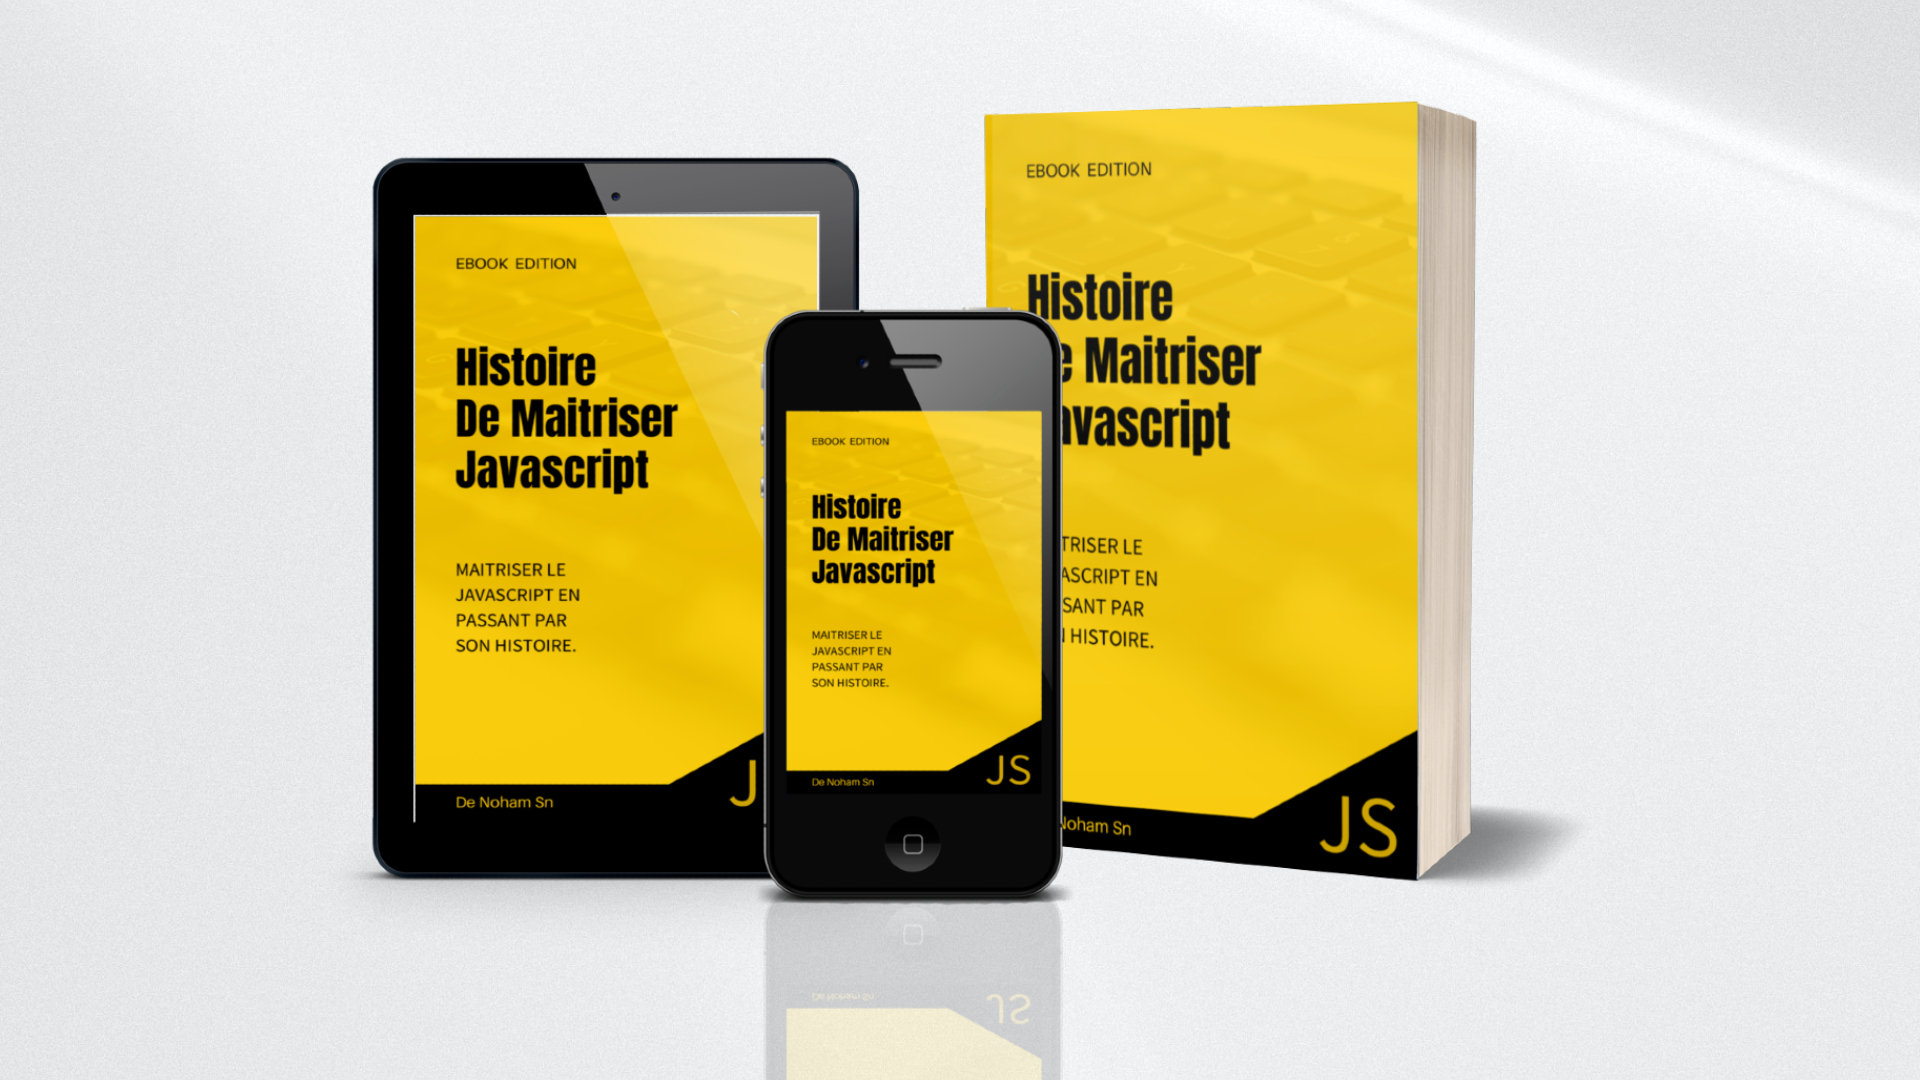
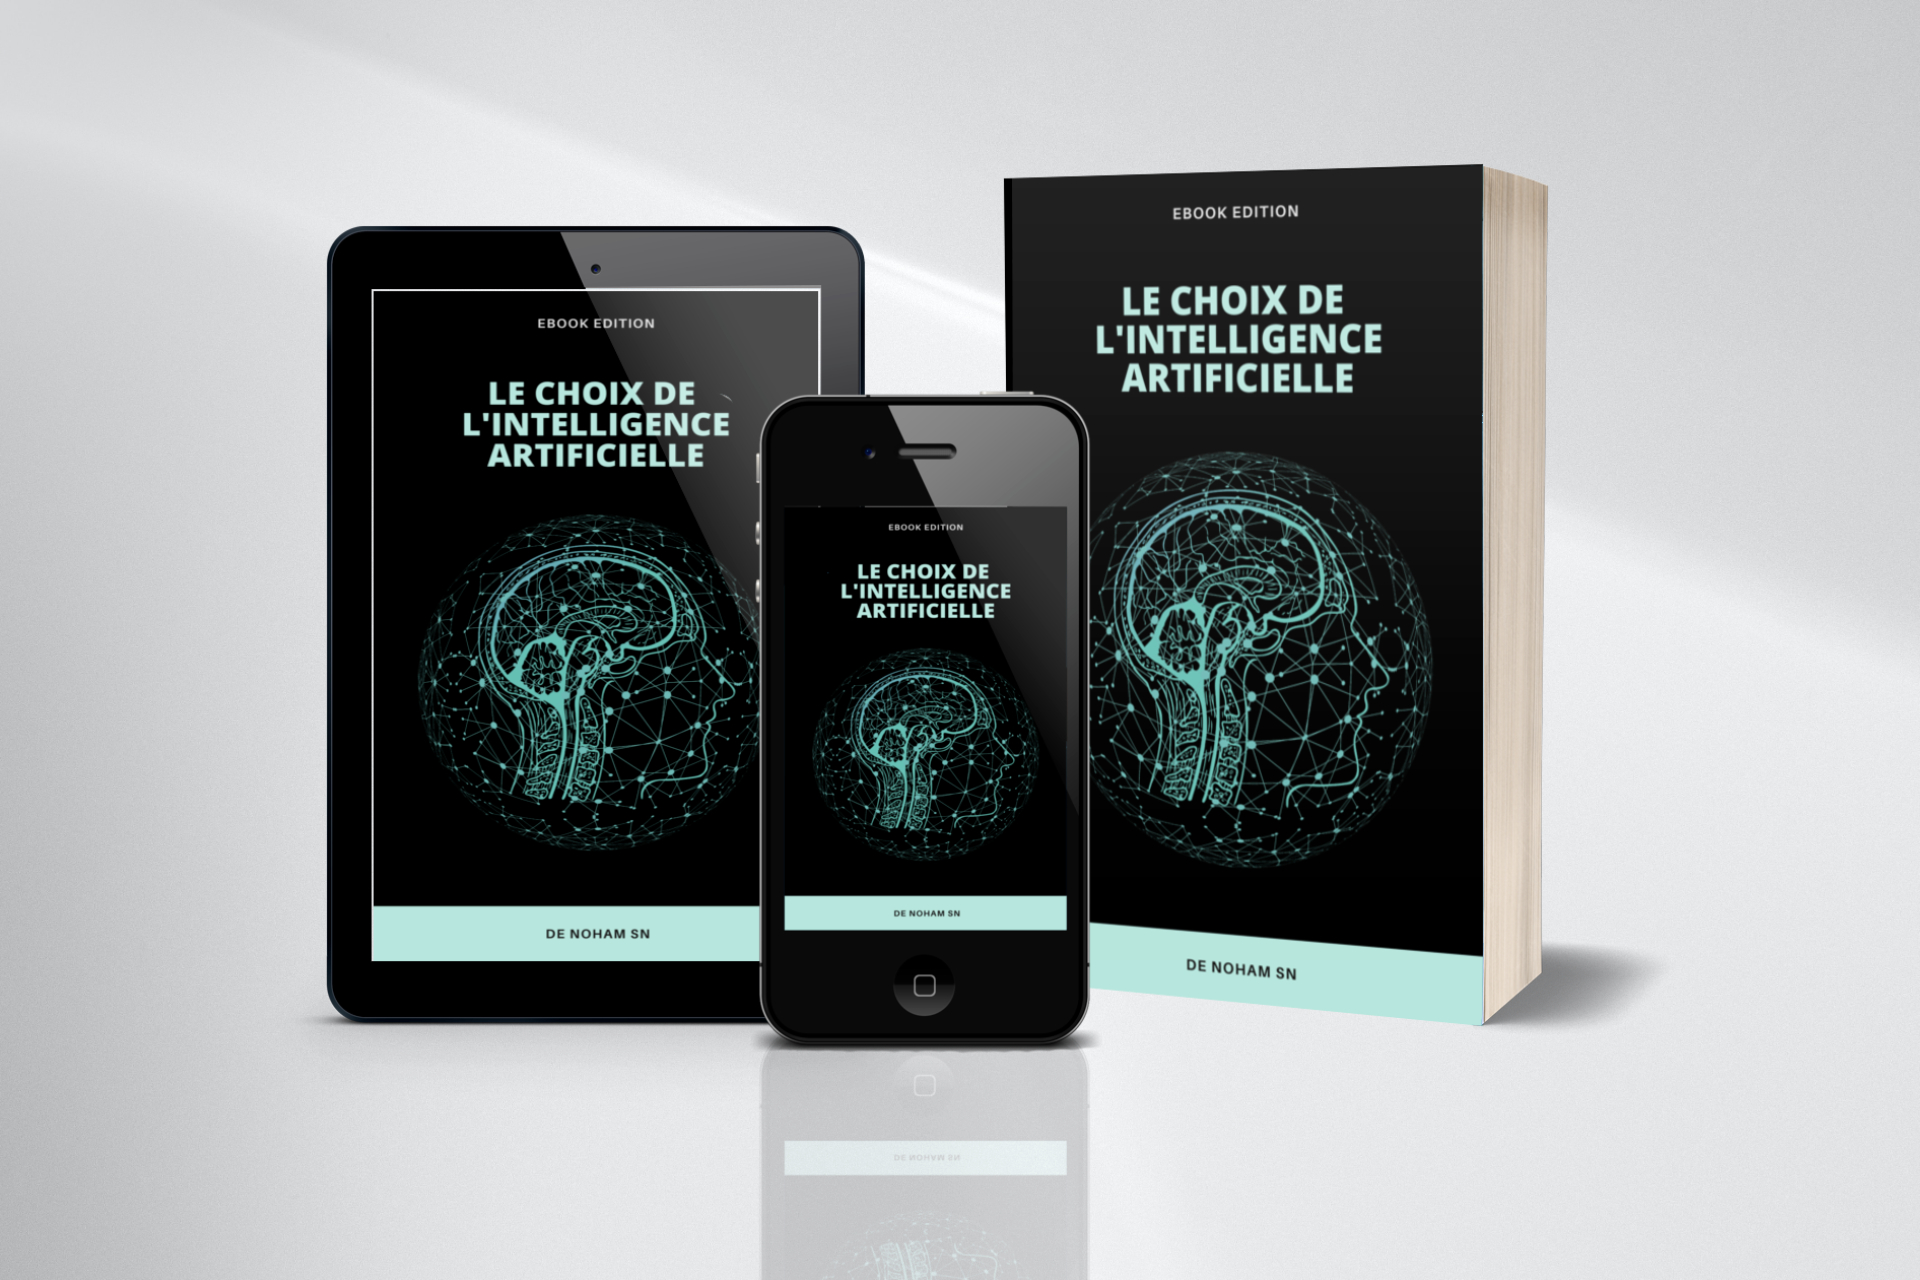
new book

diff --git a/boutique.html b/boutique.html
@@ -51,7 +51,7 @@
                 <section class="box">
                   <a href="#" class="new featured"><img src="imgtrain/HDJ-SHOP.jpg" alt="image HDJ" /></a>
                   <header>
-                    <h3>Histoire De Maitriser Javascript | Ebook</h3>
+                    <h3>Le Choix de L' IA | Ebook</h3>
                   </header>
                   <p>9,99€</p>
                 </section>
